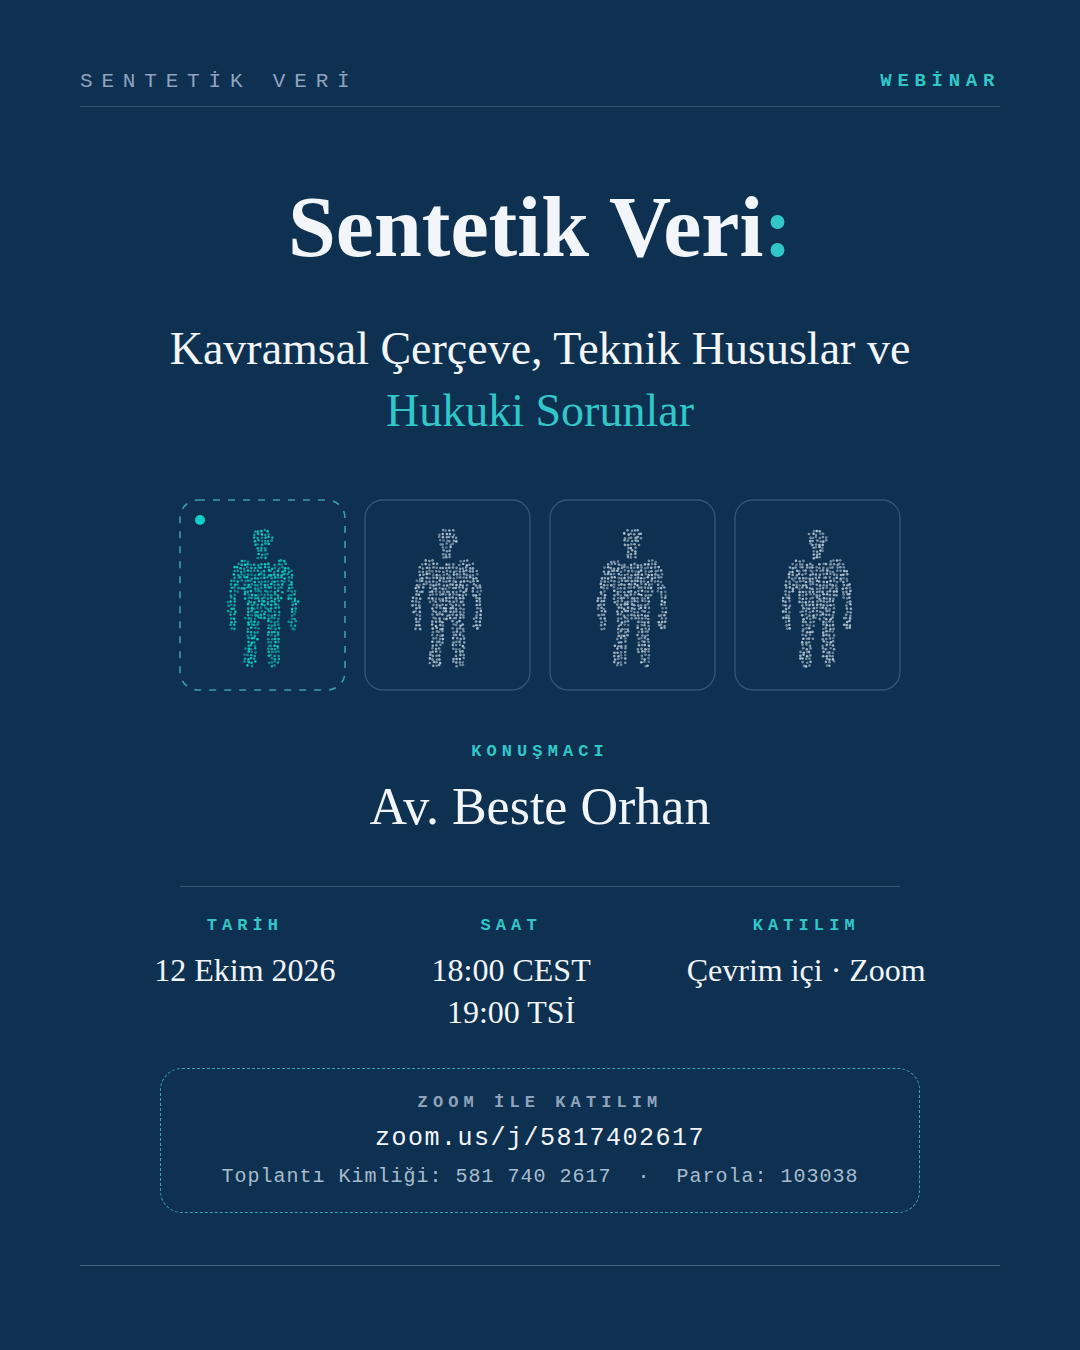
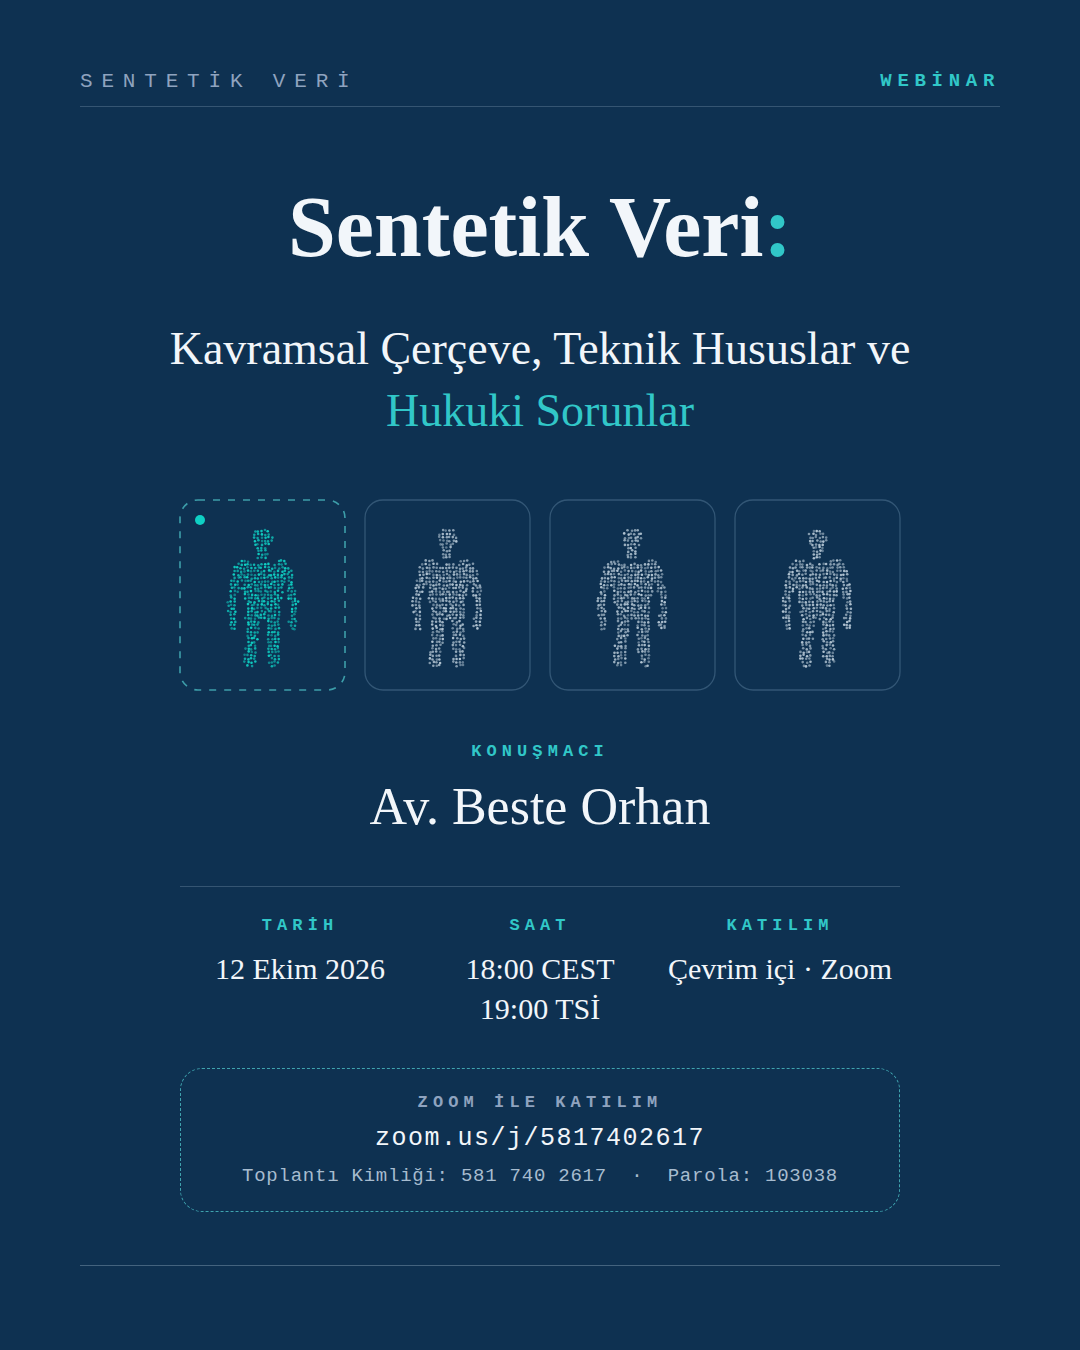
Align the poster blocks to one 180-900 band
Put the call tiles, the rule, the meta columns and the join box on the
same width: the meta row becomes three equal columns and the dashed box
no longer overhangs the rule above it.

Claude-Session: https://claude.ai/code/session_01Tg8Nh4HkqW795Bp3aL8KR1

diff --git a/designs/events/webinar-sentetik-veri-2026-10-12/Afis.dc.html b/designs/events/webinar-sentetik-veri-2026-10-12/Afis.dc.html
@@ -35,28 +35,28 @@
 
   <div style="position: absolute; left: 180px; width: 720px; top: 886px; height: 1px; background: rgba(197, 216, 233, 0.22);"></div>
 
-  <div style="position: absolute; left: 90px; width: 900px; top: 916px; display: flex; justify-content: center; align-items: flex-start; gap: 96px;">
+  <div style="position: absolute; left: 180px; width: 720px; top: 916px; display: grid; grid-template-columns: repeat(3, minmax(0, 1fr)); align-items: start;">
     
     <div style="text-align: center;">
       <div class="mono" style="font-size: 17px; font-weight: 700; letter-spacing: 0.3em; color: #31c7c8;">TARİH</div>
-      <div style="margin-top: 14px; font-size: 32px; line-height: 1.32; color: #f2f6fa; white-space: nowrap;">12 Ekim 2026</div>
+      <div style="margin-top: 14px; font-size: 30px; line-height: 1.32; color: #f2f6fa; white-space: nowrap;">12 Ekim 2026</div>
     </div>
     
     <div style="text-align: center;">
       <div class="mono" style="font-size: 17px; font-weight: 700; letter-spacing: 0.3em; color: #31c7c8;">SAAT</div>
-      <div style="margin-top: 14px; font-size: 32px; line-height: 1.32; color: #f2f6fa; white-space: nowrap;">18:00 CEST<br>19:00 TSİ</div>
+      <div style="margin-top: 14px; font-size: 30px; line-height: 1.32; color: #f2f6fa; white-space: nowrap;">18:00 CEST<br>19:00 TSİ</div>
     </div>
     
     <div style="text-align: center;">
       <div class="mono" style="font-size: 17px; font-weight: 700; letter-spacing: 0.3em; color: #31c7c8;">KATILIM</div>
-      <div style="margin-top: 14px; font-size: 32px; line-height: 1.32; color: #f2f6fa; white-space: nowrap;">Çevrim içi · Zoom</div>
+      <div style="margin-top: 14px; font-size: 30px; line-height: 1.32; color: #f2f6fa; white-space: nowrap;">Çevrim içi · Zoom</div>
     </div>
   </div>
 
-  <div style="position: absolute; left: 160px; width: 760px; top: 1068px; box-sizing: border-box; border: 1.5px dashed #3fa3ae; border-radius: 22px; padding: 24px 32px; text-align: center; display: flex; flex-direction: column; gap: 12px;">
+  <div style="position: absolute; left: 180px; width: 720px; top: 1068px; box-sizing: border-box; border: 1.5px dashed #3fa3ae; border-radius: 22px; padding: 24px 32px; text-align: center; display: flex; flex-direction: column; gap: 12px;">
     <div class="mono" style="font-size: 17px; font-weight: 700; letter-spacing: 0.3em; color: #8fa3bf;">ZOOM İLE KATILIM</div>
     <div class="mono" style="font-size: 25px; letter-spacing: 0.06em; color: #f2f6fa;">zoom.us/j/5817402617</div>
-    <div class="mono" style="font-size: 20px; letter-spacing: 0.05em; white-space: nowrap; color: #a7bccf;">Toplantı Kimliği: 581 740 2617 &nbsp;·&nbsp; Parola: 103038</div>
+    <div class="mono" style="font-size: 19px; letter-spacing: 0.04em; white-space: nowrap; color: #a7bccf;">Toplantı Kimliği: 581 740 2617 &nbsp;·&nbsp; Parola: 103038</div>
   </div>
 </div>
 </x-dc>
